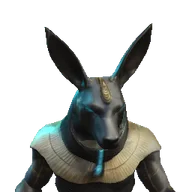
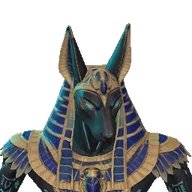
Characters 11-25: portraits for the 15 new and the new Pip Quickfoot, Anoobys and Thornweaver
Claude-Session: https://claude.ai/code/session_01PfNGaHafsFeFAcWZgUEzoB

diff --git a/packages/client/src/frontend/portraitIndex.ts b/packages/client/src/frontend/portraitIndex.ts
@@ -14,16 +14,18 @@ export const SHIPPED_PORTRAITS: Readonly<Record<string, string>> = {
   'core.alienencounter': 'core.alienencounter.webp?v=0008a626dc',
   'core.alienexplorer': 'core.alienexplorer.webp?v=39eda73b19',
   'core.ansel': 'core.ansel.webp?v=07d31667c1',
-  'core.anubis': 'core.anubis.webp?v=eeb8ed4e7f',
+  'core.anubis': 'core.anubis.webp?v=9c68eca122',
   'core.armoredsentinel': 'core.armoredsentinel.webp?v=bf0afd752d',
   'core.ashwalker': 'core.ashwalker.webp?v=238bb96d3d',
   'core.astroexplorer': 'core.astroexplorer.webp?v=917f3962b2',
   'core.astronaut': 'core.astronaut.webp?v=587f3904cd',
   'core.axolotl': 'core.axolotl.webp?v=96d443a99b',
+  'core.aztecjaguar': 'core.aztecjaguar.webp?v=fe2991a70d',
   'core.azuresentinel': 'core.azuresentinel.webp?v=e6894ca1d0',
   'core.baboon': 'core.baboon.webp?v=38fecf4945',
   'core.badgeragent': 'core.badgeragent.webp?v=9d26643f2d',
   'core.bandit': 'core.bandit.webp?v=2a70c51dee',
+  'core.baristaotter': 'core.baristaotter.webp?v=f22d7b795e',
   'core.barnaby': 'core.barnaby.webp?v=aa58b85db5',
   'core.barnacle': 'core.barnacle.webp?v=f9541571ca',
   'core.basile': 'core.basile.webp?v=da4db6f833',
@@ -32,6 +34,7 @@ export const SHIPPED_PORTRAITS: Readonly<Record<string, string>> = {
   'core.bikergirl': 'core.bikergirl.webp?v=f74ca9cf57',
   'core.bill': 'core.bill.webp?v=9484f7a04d',
   'core.biscuit': 'core.biscuit.webp?v=f3a9bb0a6e',
+  'core.blobfish': 'core.blobfish.webp?v=e7742f9526',
   'core.bogdan': 'core.bogdan.webp?v=88ea18a54b',
   'core.boglurker': 'core.boglurker.webp?v=5ceabd93d5',
   'core.bonejack': 'core.bonejack.webp?v=ad96123939',
@@ -54,6 +57,7 @@ export const SHIPPED_PORTRAITS: Readonly<Record<string, string>> = {
   'core.coachtortoise': 'core.coachtortoise.webp?v=dabdc8b0b0',
   'core.commando': 'core.commando.webp?v=07f61b931d',
   'core.crewalchemist': 'core.crewalchemist.webp?v=2f5e14c2c1',
+  'core.crewalien': 'core.crewalien.webp?v=b5f6ea951f',
   'core.crewchronomage': 'core.crewchronomage.webp?v=c682837211',
   'core.crewcyborg': 'core.crewcyborg.webp?v=33376ee5bb',
   'core.crewdemolitions': 'core.crewdemolitions.webp?v=651de03e68',
@@ -61,6 +65,7 @@ export const SHIPPED_PORTRAITS: Readonly<Record<string, string>> = {
   'core.crewmechanic': 'core.crewmechanic.webp?v=70f8e574b5',
   'core.crewmedic': 'core.crewmedic.webp?v=8c0d9cba10',
   'core.crewphase': 'core.crewphase.webp?v=8b2827c9cb',
+  'core.crewpilot': 'core.crewpilot.webp?v=9d2557cff4',
   'core.crewquartermaster': 'core.crewquartermaster.webp?v=c4a7256139',
   'core.crewrecon': 'core.crewrecon.webp?v=e7db519622',
   'core.crimsonop': 'core.crimsonop.webp?v=d3fa14eb17',
@@ -71,9 +76,11 @@ export const SHIPPED_PORTRAITS: Readonly<Record<string, string>> = {
   'core.dapper': 'core.dapper.webp?v=032d93ae07',
   'core.darkastronaut': 'core.darkastronaut.webp?v=67a6575c32',
   'core.desertranger': 'core.desertranger.webp?v=d22d8f1724',
+  'core.detectiveduck': 'core.detectiveduck.webp?v=d62b606783',
   'core.drifter': 'core.drifter.webp?v=883f544047',
   'core.dusttrooper': 'core.dusttrooper.webp?v=1c5cda9972',
   'core.dustycolt': 'core.dustycolt.webp?v=d91bb5984b',
+  'core.eagleclan': 'core.eagleclan.webp?v=021cc874df',
   'core.elder': 'core.elder.webp?v=a25d620f8e',
   'core.elephantwarrior': 'core.elephantwarrior.webp?v=411c05ff13',
   'core.ember': 'core.ember.webp?v=4cee8aaf7b',
@@ -81,6 +88,7 @@ export const SHIPPED_PORTRAITS: Readonly<Record<string, string>> = {
   'core.engineer': 'core.engineer.webp?v=56dd7979d8',
   'core.farmhand': 'core.farmhand.webp?v=cf8305dc03',
   'core.fearsomeundead': 'core.fearsomeundead.webp?v=d9b4d25bb1',
+  'core.fennec': 'core.fennec.webp?v=ad0f9d4d6a',
   'core.fishyfred': 'core.fishyfred.webp?v=ed2ef55de3',
   'core.flamingo': 'core.flamingo.webp?v=8de0de9a24',
   'core.frida': 'core.frida.webp?v=c7c881e533',
@@ -98,6 +106,7 @@ export const SHIPPED_PORTRAITS: Readonly<Record<string, string>> = {
   'core.gorillag': 'core.gorillag.webp?v=f4f56f9e59',
   'core.graffitiraccoon': 'core.graffitiraccoon.webp?v=64568772a5',
   'core.grandpachains': 'core.grandpachains.webp?v=91f89d6b16',
+  'core.greenarmy': 'core.greenarmy.webp?v=487eb30650',
   'core.greensentinel': 'core.greensentinel.webp?v=0023c7f602',
   'core.greyfang': 'core.greyfang.webp?v=166d34f779',
   'core.grizzelda': 'core.grizzelda.webp?v=935ef95313',
@@ -105,7 +114,7 @@ export const SHIPPED_PORTRAITS: Readonly<Record<string, string>> = {
   'core.grunt68': 'core.grunt68.webp?v=9e280b4691',
   'core.gymfrog': 'core.gymfrog.webp?v=8b80fb37c8',
   'core.halvard': 'core.halvard.webp?v=efc8ec809e',
-  'core.harecourier': 'core.harecourier.webp?v=263e2b7460',
+  'core.harecourier': 'core.harecourier.webp?v=60570214db',
   'core.hazmat': 'core.hazmat.webp?v=1901b888c1',
   'core.hector': 'core.hector.webp?v=95e3b5352a',
   'core.hoboclown': 'core.hoboclown.webp?v=b3a1ffaab9',
@@ -116,6 +125,7 @@ export const SHIPPED_PORTRAITS: Readonly<Record<string, string>> = {
   'core.imperialguard': 'core.imperialguard.webp?v=952b056d62',
   'core.inspector': 'core.inspector.webp?v=b2589a7cf8',
   'core.knight': 'core.knight.webp?v=fe7d4b3d86',
+  'core.koala': 'core.koala.webp?v=a4923b6688',
   'core.larry': 'core.larry.webp?v=a2adf05270',
   'core.lionsuit': 'core.lionsuit.webp?v=6f110457a8',
   'core.magmajuggernaut': 'core.magmajuggernaut.webp?v=ad509d00db',
@@ -126,6 +136,7 @@ export const SHIPPED_PORTRAITS: Readonly<Record<string, string>> = {
   'core.medicautomaton': 'core.medicautomaton.webp?v=a00613e45c',
   'core.mei': 'core.mei.webp?v=65a796a3a4',
   'core.merrow': 'core.merrow.webp?v=1c24d4f149',
+  'core.monkeyspirit': 'core.monkeyspirit.webp?v=f41b842df6',
   'core.mummybot': 'core.mummybot.webp?v=3eaa5b4b73',
   'core.mystic': 'core.mystic.webp?v=d7f46fe430',
   'core.neonguardian': 'core.neonguardian.webp?v=c5bb3565c1',
@@ -136,6 +147,7 @@ export const SHIPPED_PORTRAITS: Readonly<Record<string, string>> = {
   'core.operative': 'core.operative.webp?v=dbe9a02642',
   'core.orangeengineer': 'core.orangeengineer.webp?v=90f56cb7c1',
   'core.otter': 'core.otter.webp?v=a88a83522d',
+  'core.outlawranger': 'core.outlawranger.webp?v=5dfb87e36d',
   'core.owlsniper': 'core.owlsniper.webp?v=a6823e0f25',
   'core.panda': 'core.panda.webp?v=41b48a1522',
   'core.pathfinder': 'core.pathfinder.webp?v=73291d804a',
@@ -171,6 +183,7 @@ export const SHIPPED_PORTRAITS: Readonly<Record<string, string>> = {
   'core.skeletonbiker': 'core.skeletonbiker.webp?v=7c43f67e50',
   'core.skywarrior': 'core.skywarrior.webp?v=d1b0488588',
   'core.slugger': 'core.slugger.webp?v=567a3d8273',
+  'core.snakeshaman': 'core.snakeshaman.webp?v=d63e7e0401',
   'core.snikkit': 'core.snikkit.webp?v=9664ee09fa',
   'core.sophisticate': 'core.sophisticate.webp?v=8f322d3088',
   'core.spacemarine': 'core.spacemarine.webp?v=129ff72241',
@@ -189,9 +202,10 @@ export const SHIPPED_PORTRAITS: Readonly<Record<string, string>> = {
   'core.tacticalsoldier': 'core.tacticalsoldier.webp?v=fc2791114f',
   'core.tasmaniandevil': 'core.tasmaniandevil.webp?v=735505a920',
   'core.teddy': 'core.teddy.webp?v=c70cc9263a',
-  'core.thornweaver': 'core.thornweaver.webp?v=28aaae6611',
+  'core.thornweaver': 'core.thornweaver.webp?v=03ce2226a1',
   'core.timetraveler': 'core.timetraveler.webp?v=f5e2f4e636',
   'core.tortoise': 'core.tortoise.webp?v=5f34c05da8',
+  'core.toysoldier': 'core.toysoldier.webp?v=91c50df804',
   'core.tposesoldier1': 'core.tposesoldier1.webp?v=589180464f',
   'core.tposesoldier2': 'core.tposesoldier2.webp?v=e573dae467',
   'core.tracker': 'core.tracker.webp?v=d8fda50115',
@@ -209,6 +223,7 @@ export const SHIPPED_PORTRAITS: Readonly<Record<string, string>> = {
   'core.warden': 'core.warden.webp?v=3302637426',
   'core.warlord': 'core.warlord.webp?v=e432f4f578',
   'core.warriorsentinel': 'core.warriorsentinel.webp?v=5300586db5',
+  'core.warthog': 'core.warthog.webp?v=d06ec1d37d',
   'core.wayfarer': 'core.wayfarer.webp?v=e3d4b89af6',
   'core.wwiisoldier': 'core.wwiisoldier.webp?v=21ec2ae183',
   'core.zencapybara': 'core.zencapybara.webp?v=429ac4b59f',
